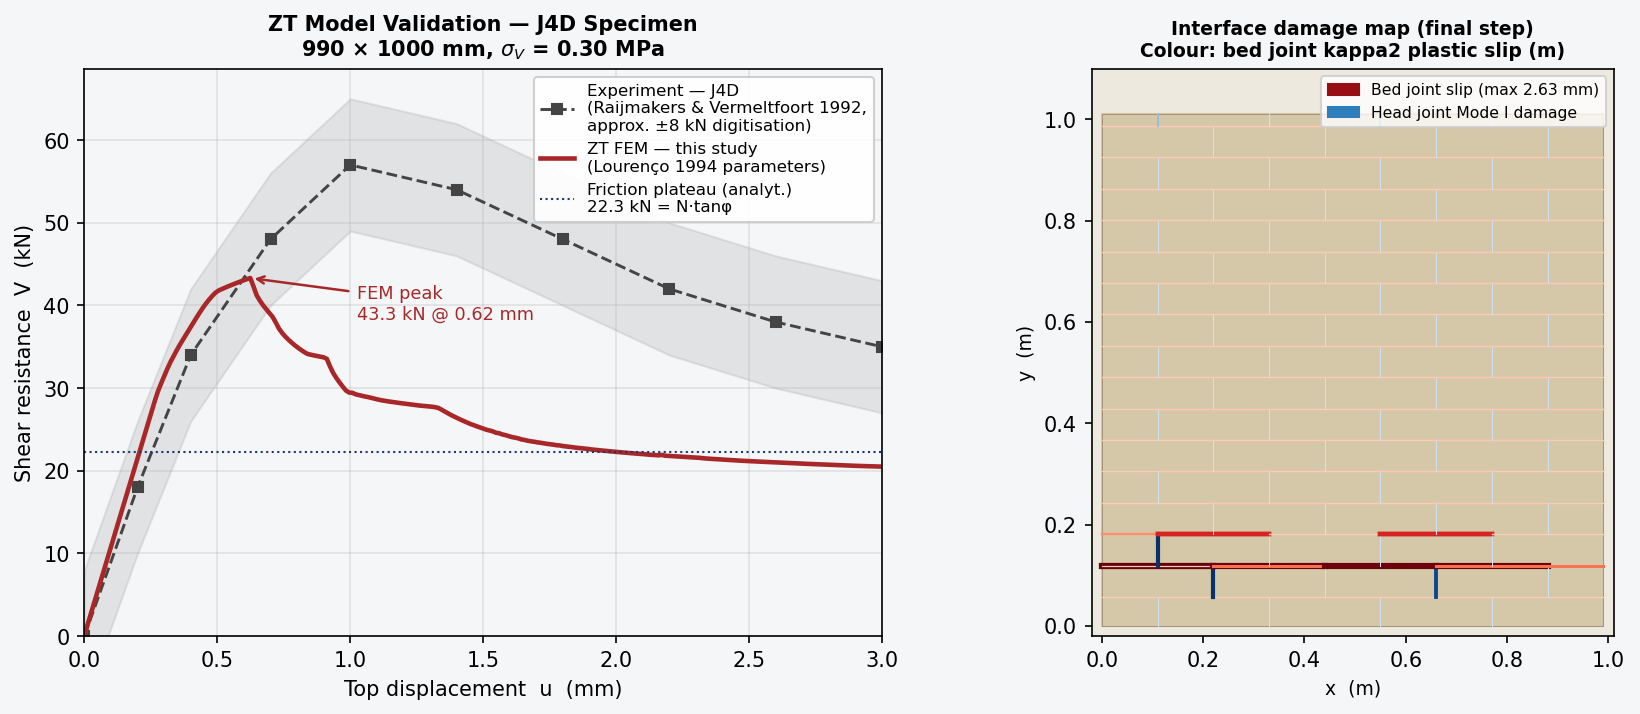
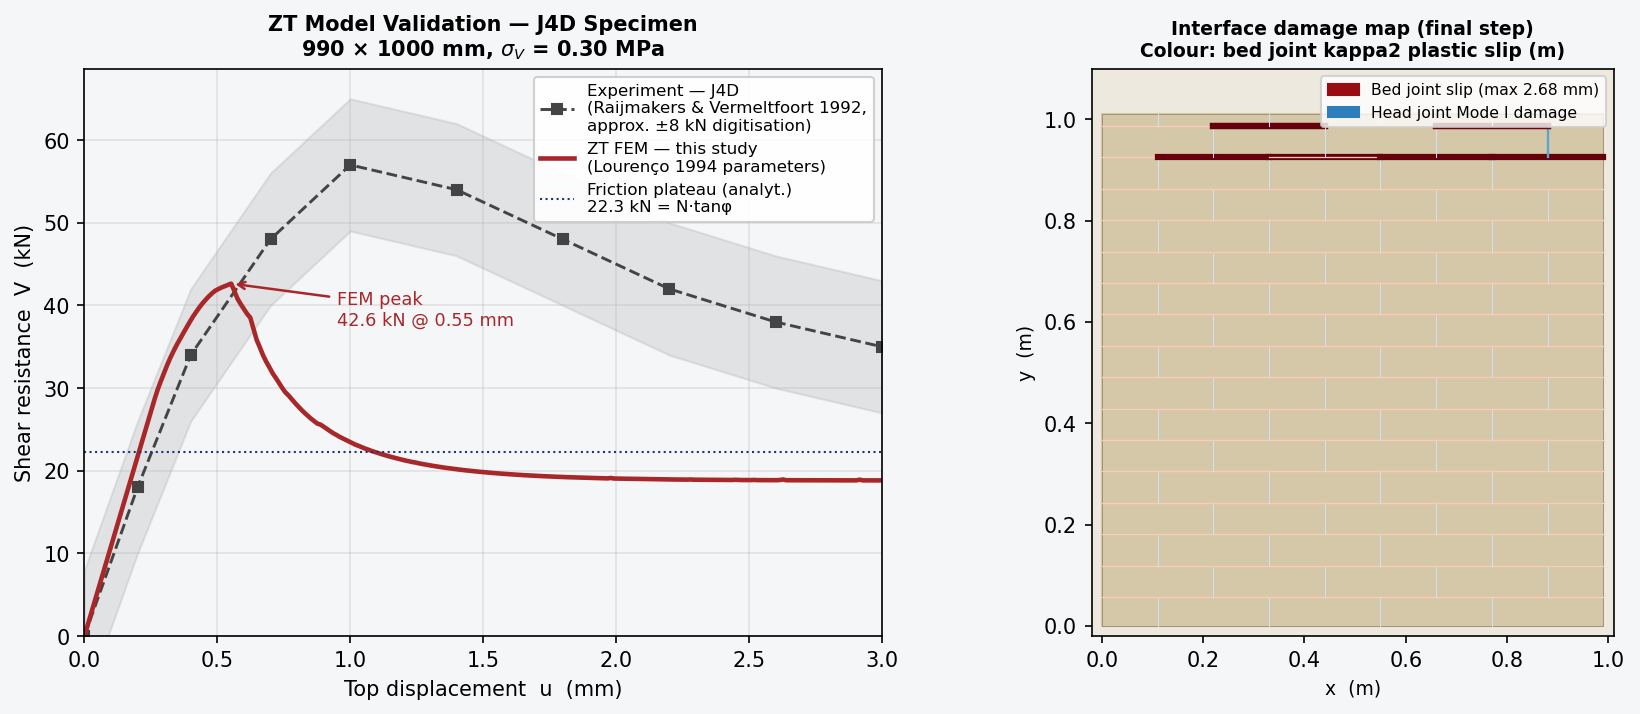
Improve J4D validation: rigid loading-plate BC, open-crack Kss fix
- Add penalty beam coupling top-node y-DOFs (rigid_top=True in solve_wall)
  to replicate the steel loading plate in Raijmakers & Vermeltfoort (1992)
- Fix Newton residual to include beam internal force so all 250 steps converge
- Reduce head-joint Kss to ~0 once Mode I crack opens (d1>0, un>0), removing
  spurious shear across open cracks and allowing staircase-crack propagation
- Updated results: peak 42.6 kN @ 0.55 mm, plateau 18.9 kN (all steps OK)

diff --git a/urm_wall_fem2d.py b/urm_wall_fem2d.py
@@ -165,7 +165,8 @@ def iface_update(p: IFaceParams, s: IFaceState,
                  skip_mode2: bool = False) -> Tuple[float, float, float, float]:
     """
     Update interface state and return (sigma_n, tau, K_nn, K_ss).
-    skip_mode2=True: shear remains elastic (head joints — only Mode I cracking allowed).
+    skip_mode2=True (head joints): elastic shear only; prevents the running-bond
+        tilt cascade when bricks are free to rotate (no rigid-beam top BC).
     """
     from math import exp
 
@@ -190,12 +191,16 @@ def iface_update(p: IFaceParams, s: IFaceState,
         K_nn    = p.kn
 
     # ---- Mode II (shear) ----
-    # Head joints (skip_mode2=True): elastic shear only.
-    # Running-bond kinematics cause large vertical shear at head joints; allowing
-    # Mode II yield there drives K_ff → singular and prevents bed-joint sliding.
     if skip_mode2:
-        tau  = p.ks * (us - s.up)   # s.up stays 0 for head joints
-        K_ss = p.ks
+        # For an open Mode I crack (joint in tension AND damaged), there is no
+        # shear stiffness across the gap.  Retain a tiny value to keep K non-singular.
+        if s.d1 > 0.0 and un > 0.0:
+            K_ss_eff = p.ks * 1e-4
+            tau  = K_ss_eff * (us - s.up)
+            K_ss = K_ss_eff
+        else:
+            tau  = p.ks * (us - s.up)
+            K_ss = p.ks
         return sigma_n, tau, K_nn, K_ss
 
     c0_eff = p.c0 * (1.0 - s.d1)
@@ -229,8 +234,6 @@ def iface_update(p: IFaceParams, s: IFaceState,
         s.kappa2 = k0 + dGamma
         s.up    += dGamma * sign
         tau      = (tt_abs - p.ks * dGamma) * sign
-        # Secant stiffness: |tau|/|us_total|. Positive definite; avoids both
-        # K_ss=0 cascade and K_ss=KS spurious-equilibrium. Capped at KS.
         K_ss = min(p.ks, abs(tau) / max(abs(us), 1e-15))
 
     return sigma_n, tau, K_nn, K_ss
@@ -748,8 +751,8 @@ def assemble(mesh: FEMesh, u: np.ndarray,
         jump  = B_mid @ ue    # [Δu_n, Δu_s]
         un, us = float(jump[0]), float(jump[1])
 
-        # Head joints (not horiz): elastic shear to prevent running-bond tilt cascade.
-        # Bed joints (horiz): secant K_ss allows plastic slip accumulation.
+        # Head joints (not horiz): skip_mode2=True keeps K_ss=KS unless the
+        # caller has set rigid_top_beam which prevents the tilt instability.
         sigma_n, tau, K_nn, K_ss = iface_update(p_iface, st, un, us,
                                                   skip_mode2=(not horiz))
 
@@ -796,20 +799,53 @@ def solve_wall(mesh: FEMesh, cfg: WallConfig,
                p_iface_override: Optional[IFaceParams] = None,
                sigma_v: float = SIGMA_V,
                u_total: float = U_TOTAL,
-               n_steps: int = N_STEPS) -> Dict:
+               n_steps: int = N_STEPS,
+               rigid_top: bool = False) -> Dict:
     """
     Incremental-iterative Newton-Raphson solver.
     Loading:
       1. Single elastic step for vertical pre-compression.
       2. Monotonic horizontal displacement ramp at top nodes.
 
-    Optional overrides allow validation runs with custom material parameters
-    (e.g. Lourenço 1994 calibrated values for Raijmakers J4D specimen).
+    rigid_top=True: adds a high-stiffness beam coupling all top-node y-DOFs
+        together, matching the rigid loading-plate boundary condition of the
+        Raijmakers & Vermeltfoort (1992) shear-wall test.  Prevents running-bond
+        brick tilt and allows head-joint Mode II to activate without cascade.
     """
     n_dof    = 2 * len(mesh.nodes)
     n_iface  = len(mesh.iface_nodes)
     n_mortar = len(mesh.mortar_elems)
     p_iface  = p_iface_override if p_iface_override is not None else IFaceParams()
+
+    # ---- Rigid top-beam penalty stiffness ----
+    # K_beam couples consecutive top-node y-DOFs: K*(u_yi - u_yj)^2.
+    # K_beam >> K_mortar so the coupling is nearly rigid.
+    K_beam = 100.0 * KN * cfg.wall_width * THICK  # ≈ 100 × whole-wall stiffness
+    _top_sorted = sorted(mesh.top_nodes,
+                         key=lambda n: mesh.nodes[n, 0])  # left→right
+
+    def _add_beam_stiffness(K: np.ndarray) -> None:
+        """Add penalty beam coupling to K (in-place) if rigid_top is active."""
+        if not rigid_top or len(_top_sorted) < 2:
+            return
+        for na, nb in zip(_top_sorted[:-1], _top_sorted[1:]):
+            da, db = 2 * na + 1, 2 * nb + 1   # y-DOFs
+            K[da, da] += K_beam
+            K[db, db] += K_beam
+            K[da, db] -= K_beam
+            K[db, da] -= K_beam
+
+    def _beam_fint(u: np.ndarray) -> np.ndarray:
+        """Return beam internal force vector so it can be included in residual."""
+        fb = np.zeros(n_dof)
+        if not rigid_top or len(_top_sorted) < 2:
+            return fb
+        for na, nb in zip(_top_sorted[:-1], _top_sorted[1:]):
+            da, db = 2 * na + 1, 2 * nb + 1
+            f_ab = K_beam * (u[da] - u[db])
+            fb[da] += f_ab
+            fb[db] -= f_ab
+        return fb
 
     def _fresh_mortar_states():
         return [[MortarGPState() for _ in range(4)] for _ in range(n_mortar)]
@@ -830,6 +866,7 @@ def solve_wall(mesh: FEMesh, cfg: WallConfig,
     # One elastic solve for pre-compression (no plastic state committed)
     trial = [copy.copy(s) for s in saved_states]
     K0, _ = assemble(mesh, u, trial, p_iface, _fresh_mortar_states())
+    _add_beam_stiffness(K0)
     K_bc, f_bc = apply_bcs(K0, f_precomp, mesh.fixed_dofs,
                             {d: 0.0 for d in mesh.fixed_dofs})
     u = np.linalg.solve(K_bc, f_bc)
@@ -860,6 +897,8 @@ def solve_wall(mesh: FEMesh, cfg: WallConfig,
             trial        = [copy.copy(s) for s in saved_states]
             trial_mortar = _copy_mortar_states(saved_mortar_states)
             K, fi = assemble(mesh, u, trial, p_iface, trial_mortar)
+            _add_beam_stiffness(K)
+            fi += _beam_fint(u)
 
             res      = f_precomp - fi
             res_norm = np.linalg.norm(res[free])

diff --git a/urm_validation_j4d.py b/urm_validation_j4d.py
@@ -75,6 +75,7 @@ res = urm.solve_wall(
     sigma_v=SIGMA_V_J4D,
     u_total=U_TOTAL_J4D,
     n_steps=N_STEPS_J4D,
+    rigid_top=True,
 )
 
 u_mm = res['u_history'] * 1e3
